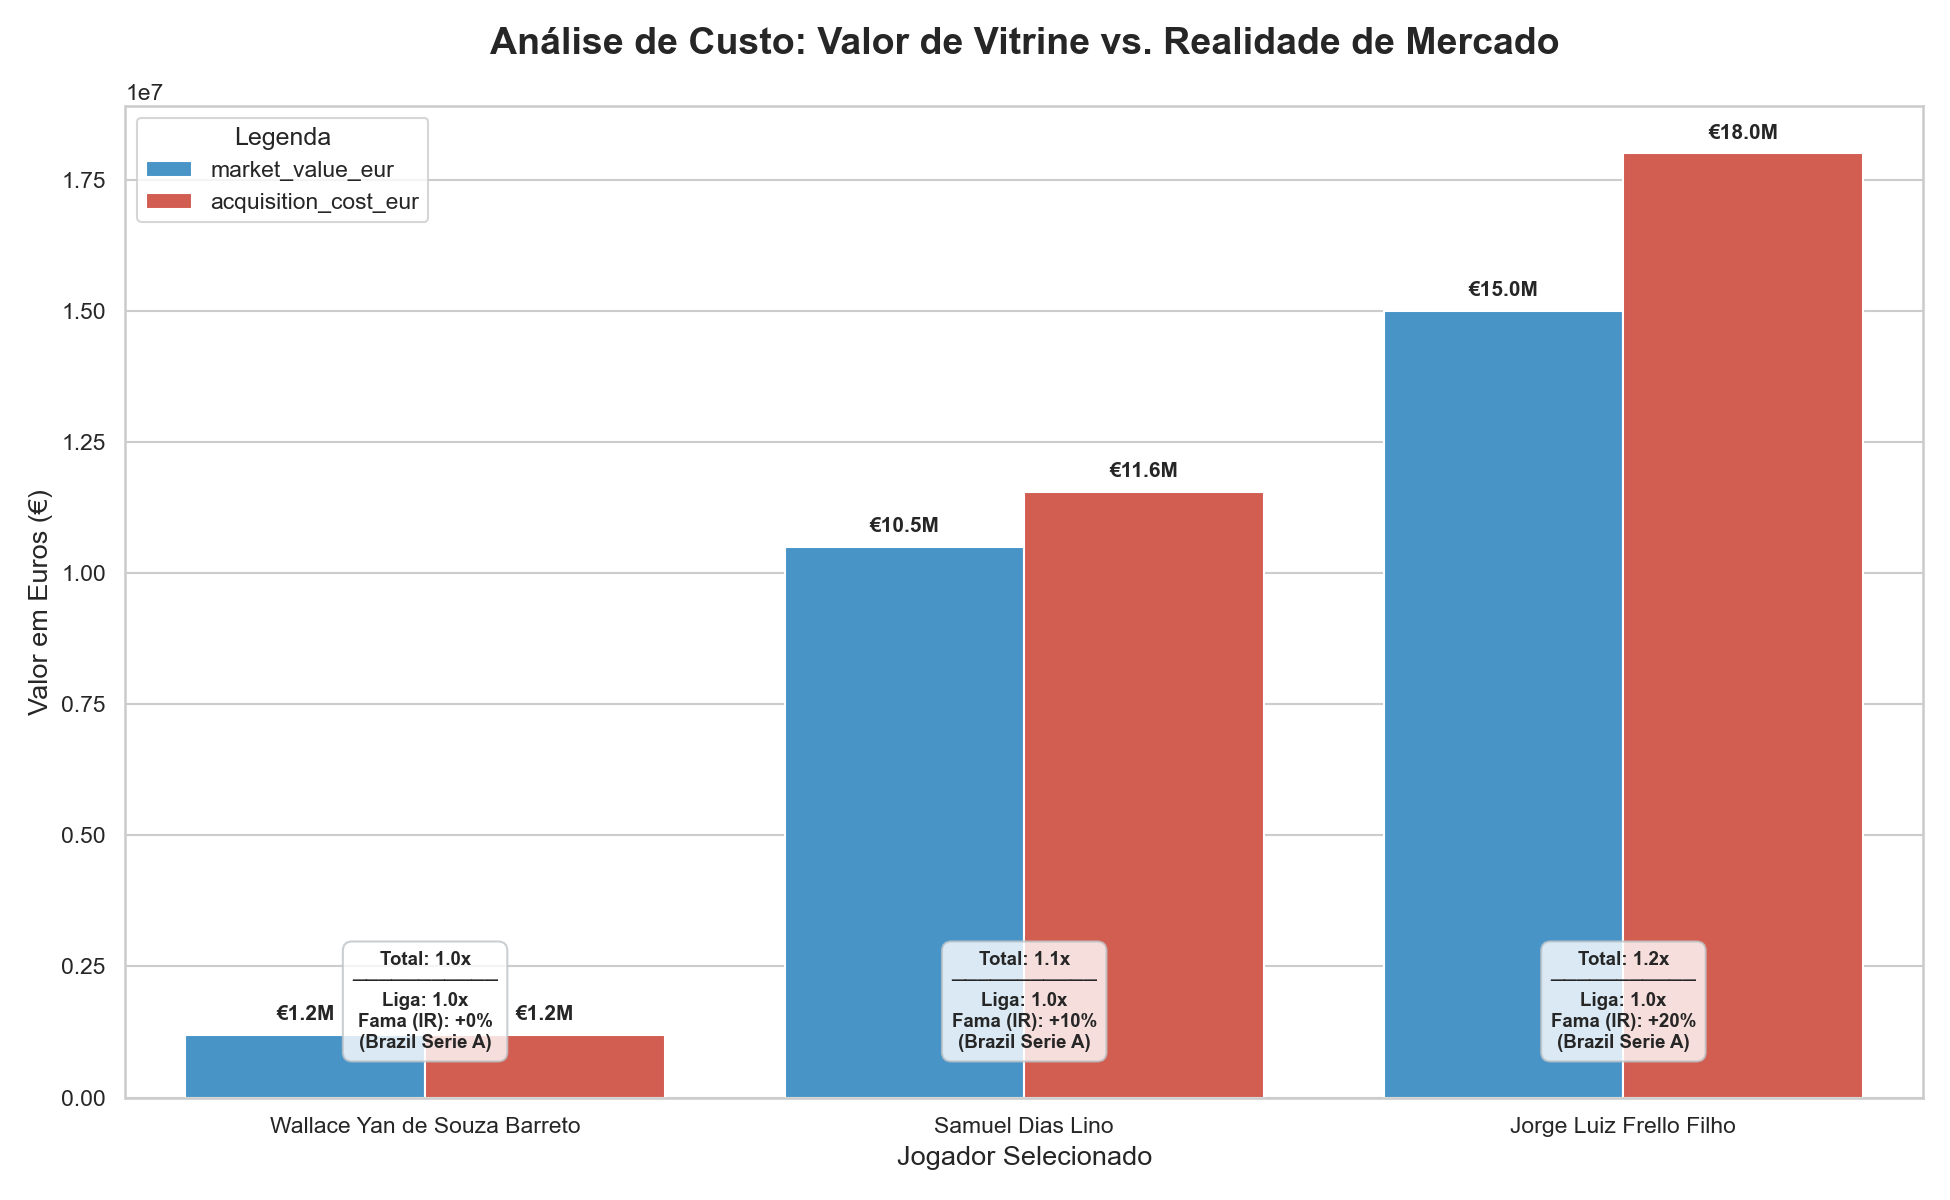
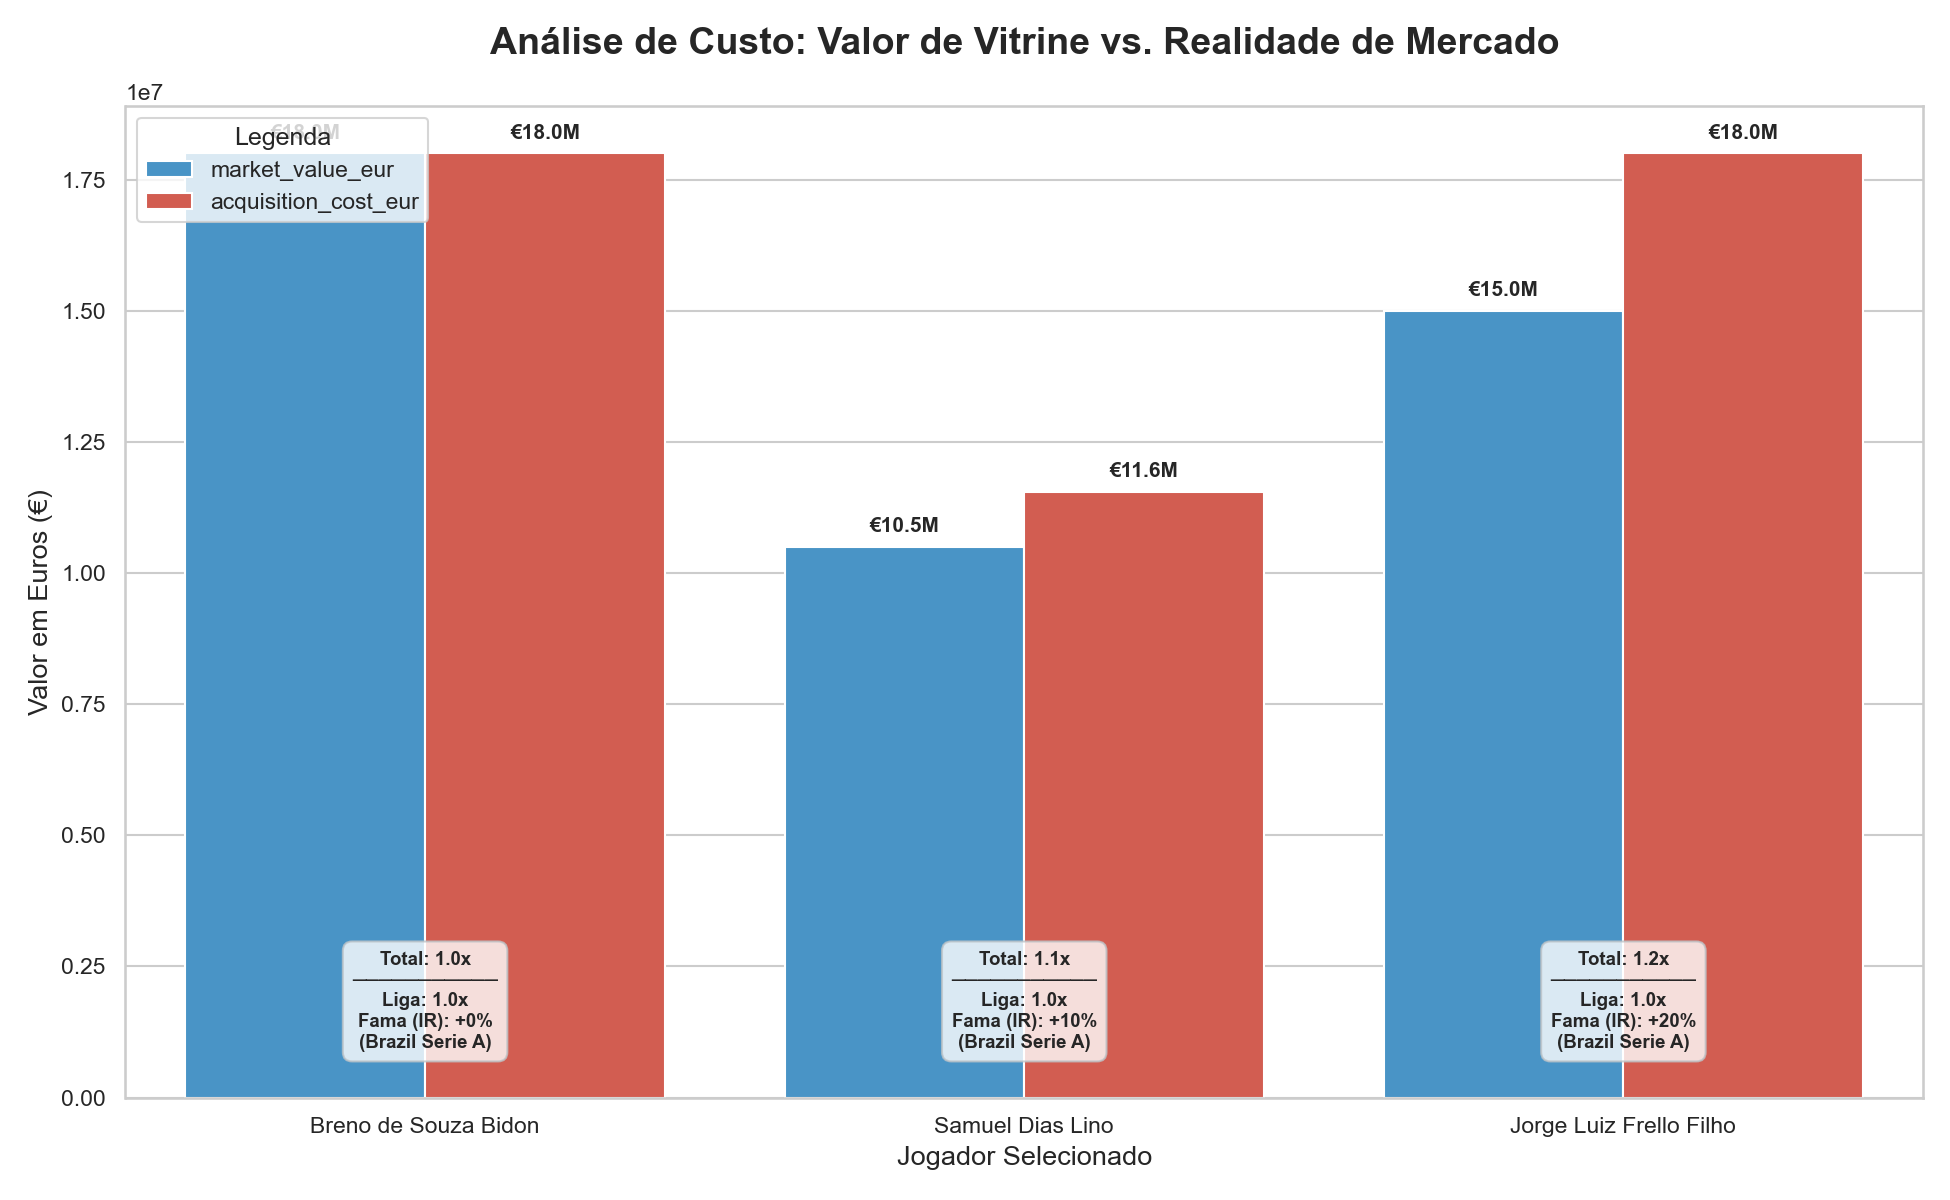
docs: improve the evolution visualization

Changed region(s): [[0.0923, 0.0925, 0.3385, 0.8633], [0.1231, 0.925, 0.3077, 0.9558]]

diff --git a/analysis/plots.py b/analysis/plots.py
@@ -123,12 +123,12 @@ def main():
         # DICA: Verifique se esses nomes estão EXATAMENTE assim no seu CSV
         # Se você fez scraping novo, talvez os nomes tenham mudado ligeiramente.
         alvos = {
-            "Wallace Yan de Souza Barreto": "Jovem",
+            "Breno de Souza Bidon": "Jovem",
             "Samuel Dias Lino": "Auge",
             "Jorge Luiz Frello Filho": "Veterano"
         }
 
-        alvos_custo = [ "Wallace Yan de Souza Barreto", "Samuel Dias Lino", "Jorge Luiz Frello Filho"]
+        alvos_custo = [ "Breno de Souza Bidon", "Samuel Dias Lino", "Jorge Luiz Frello Filho"]
         
     
         plot_ovr_evolution(df, alvos)
